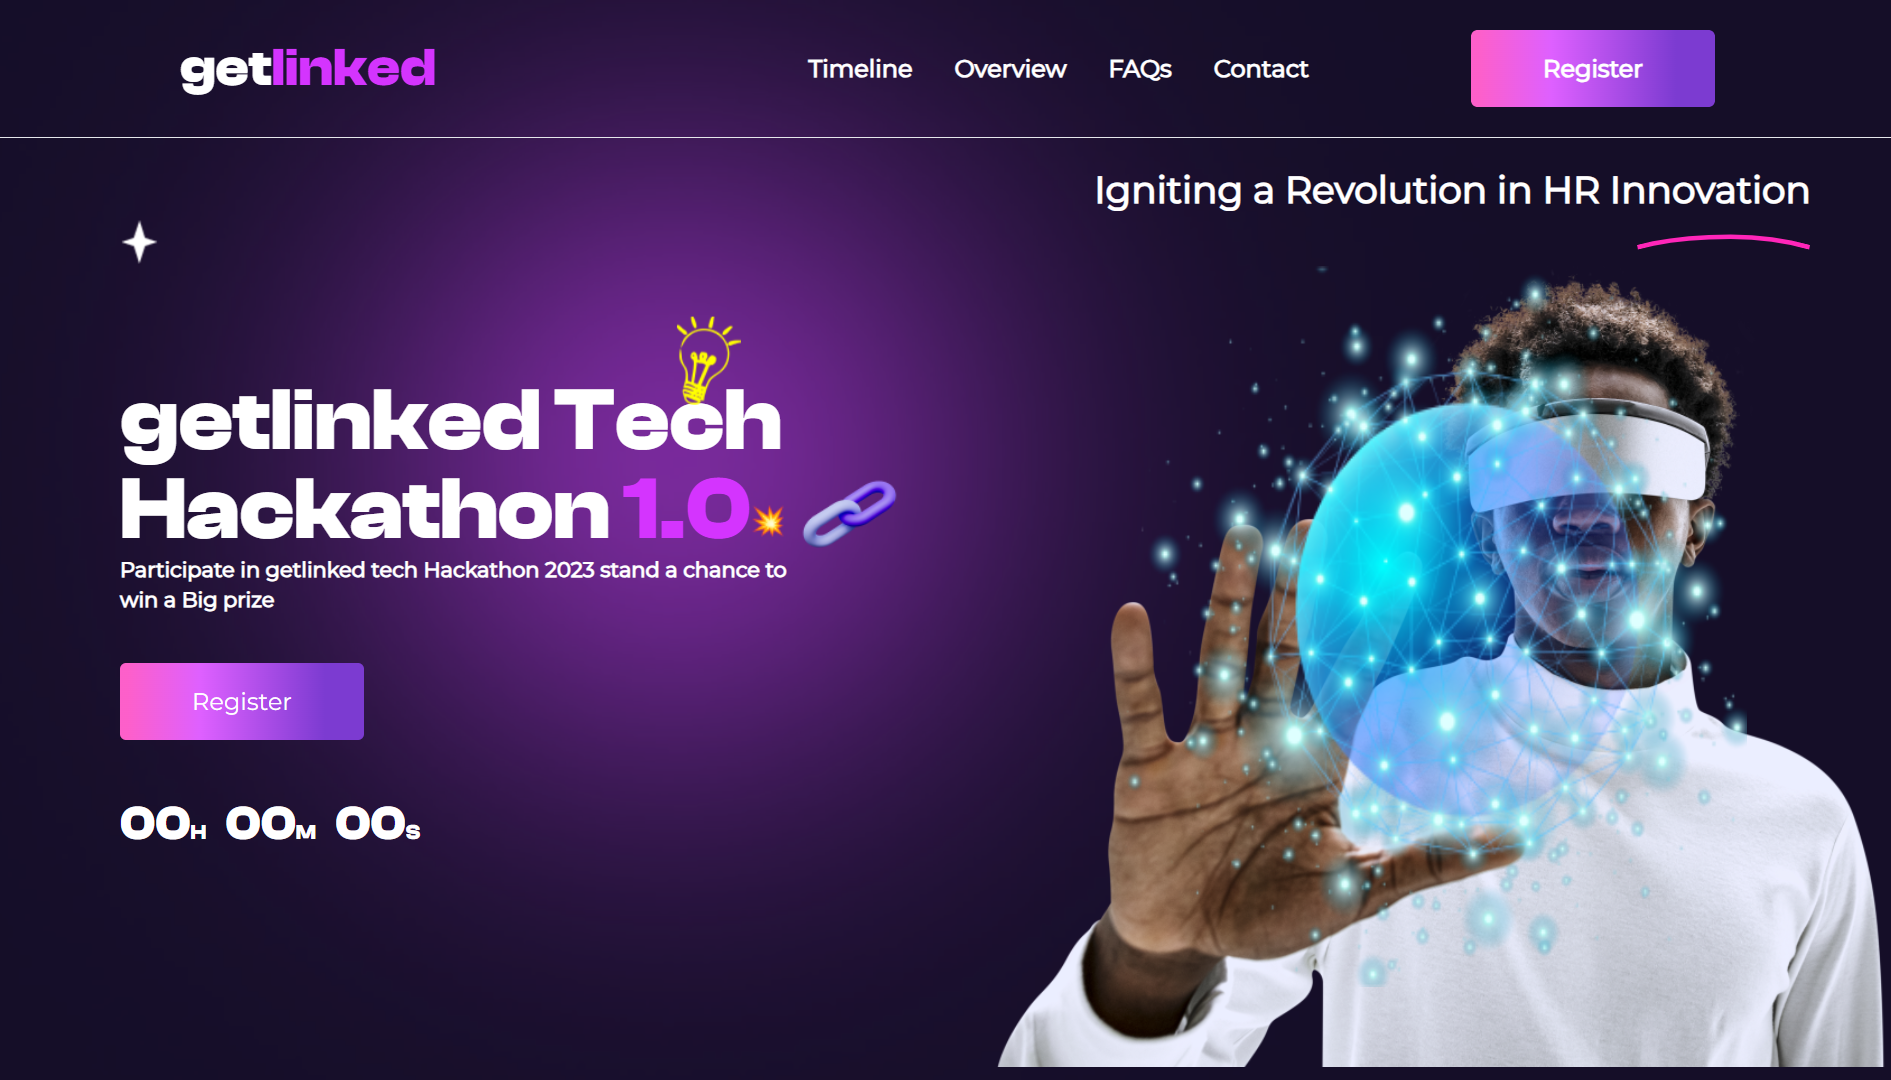
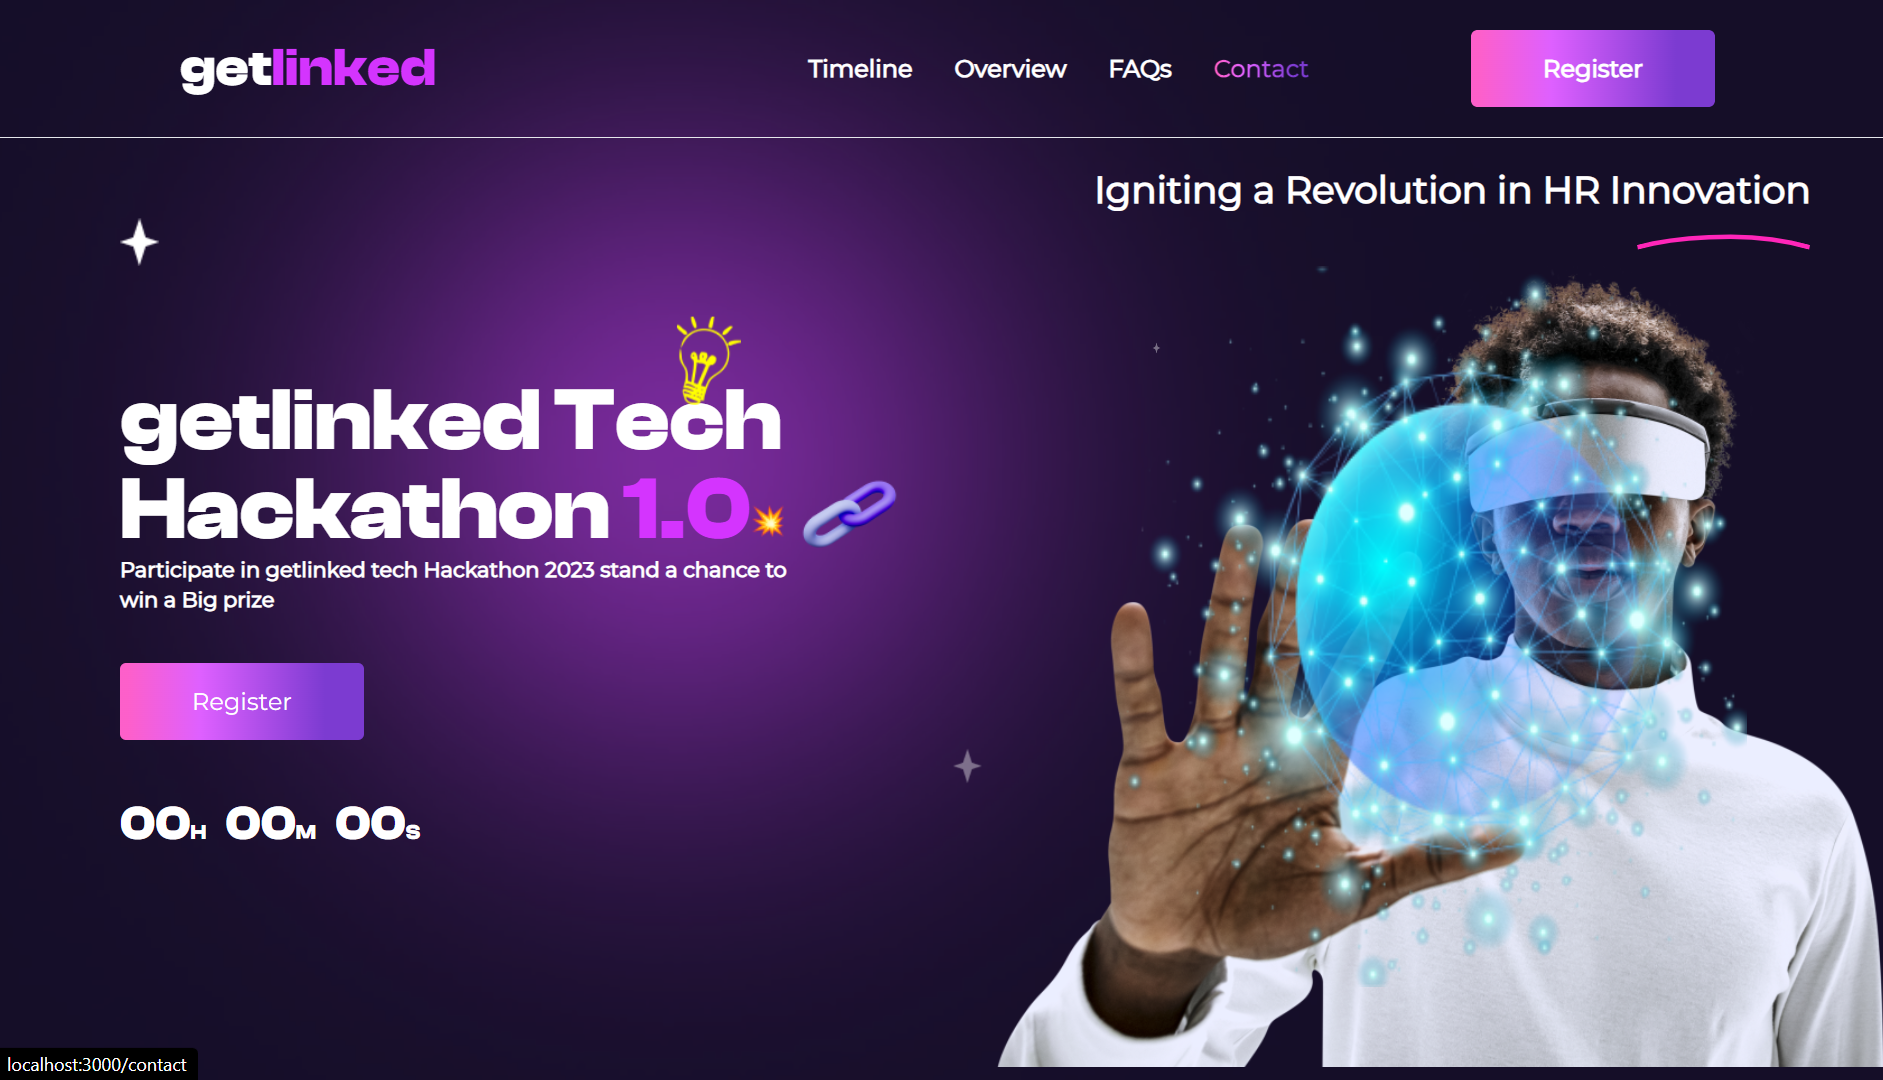
..hhl

diff --git a/src/pages/Home.jsx b/src/pages/Home.jsx
@@ -47,8 +47,17 @@ const Home = () => {
       <Nav />
 
       <hr className='hr' />
-      <div className='font-bold mx-auto HERO text-white lg:pl-20 lg:mx:0 lg:w-auto'>
-        <div></div>
+      <div className='relative font-bold mx-auto HERO text-white lg:pl-20 lg:mx:0 lg:w-auto'>
+        <img
+          className='star star3 top-[10%] left-[79%] md:top-[20%] md:left-[60%]'
+          src={grayStar}
+          alt='gray star'
+        />{" "}
+        <img
+          className='star star5 top-[32%] left-[78%] md:top-[65%] md:left-[50%]'
+          src={grayStar}
+          alt='gray star'
+        />
         <h2
           ref={heroMainTextRef}
           id='typing-text'
